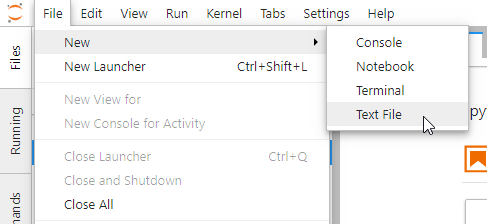
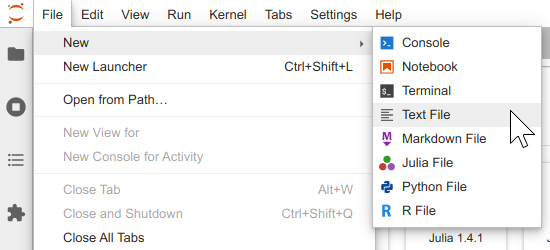
Update screenshots and text for user interface docs (#11499)
* Update screenshots and text for user interface docs

* Update JupyterLab image

Changed region(s): [[0.0, 0.0, 1.0, 1.0], [0.9856, 0.9375, 1.0, 0.9688]]

diff --git a/docs/source/user/interface.rst b/docs/source/user/interface.rst
@@ -51,28 +51,46 @@ default menus are:
 :ref:`JupyterLab extensions <user_extensions>` can also create new top-level menus in the menu
 bar.
 
+.. _sidebars:
+
+Left and Right Sidebar
+----------------------
+
 .. _left-sidebar:
 
-Left Sidebar
-------------
+The left sidebar contains a number of commonly-used tabs including:
 
-The left sidebar contains a number of commonly-used tabs, such as a file
-browser, a list of running kernels and terminals, the command palette,
-and a list of tabs in the main work area:
+- a file browser,
+- a list of tabs in the main work and of running kernels and terminals,
+- the command palette (in 3.0+ moved to a modal window accessible with a :ref:`keyboard shortcut <access-palette>`),
+- the :ref:`table of contents <toc>`,
+- the :ref:`extension manager <extension_manager>`.
 
 .. image:: images/interface_left.png
    :align: center
    :class: jp-screenshot
    :alt: A screenshot of the primary JupyterLab sidebar showing a variety of files in the file browser.
 
-The icons and labels column that allows to switch between tabs is called
-Activity Bar in JupyterLab.
+.. _right-sidebar:
+
+The right sidebar contains:
+
+- the property inspector (active in notebooks),
+- the :ref:`debugger <debugger>`.
+
+.. image:: images/interface_right.png
+   :align: center
+   :class: jp-screenshot
+   :alt: A screenshot of the secondary JupyterLab sidebar showing the property inspector.
+
+The column that allows to switch between tabs is called Activity Bar in JupyterLab.
 
 .. _left-sidebar-toggle:
 
-The left sidebar can be collapsed or expanded by selecting "Show Left Sidebar"
-in the View menu or by clicking on the active sidebar tab:
+The sidebars can be collapsed or expanded by selecting "Show Left Sidebar"
+or "Show Right Sidebar" in the View menu or by clicking on the active sidebar tab:
 
+The location of tabs can be switched between the left and the right sidebar from the :ref:`context menu <context-menus-rightclick>`.
 
 .. raw:: html
 
@@ -80,7 +98,7 @@ in the View menu or by clicking on the active sidebar tab:
      <iframe src="https://www.youtube-nocookie.com/embed/PlJGecfetek?rel=0&amp;showinfo=0" frameborder="0" allow="autoplay; encrypted-media" allowfullscreen></iframe>
   </div>
 
-JupyterLab extensions can add additional panels to the left sidebar.
+JupyterLab extensions can add additional panels to the sidebars.
 
 .. _main-area:
 

diff --git a/docs/source/user/export.rst b/docs/source/user/export.rst
@@ -8,7 +8,7 @@ into other file formats such as:
 
 -  Asciidoc ``.asciidoc``
 -  HTML ``.html``
--  Latex ``.tex``
+-  LaTeX ``.tex``
 -  Markdown ``.md``
 -  PDF ``.pdf``
 -  ReStructured Text ``.rst``
@@ -35,7 +35,7 @@ slides, follow these steps:
 
 1. Open a notebook by double clicking it in the
    :ref:`file browser <working-with-files>`.
-2. Select Cell tools in the :ref:`left sidebar <left-sidebar>`.
+2. Select Property inspector in the :ref:`right sidebar <right-sidebar>`.
 3. Select the slide type (Slide, Subslide, Fragment, Skip, Notes).
 
 .. image:: images/exporting_slide_type.png

diff --git a/docs/source/user/extensions.rst b/docs/source/user/extensions.rst
@@ -207,6 +207,8 @@ See :ref:`documentation on LabConfig directories <labconfig_directories>` for mo
 Managing Extensions Using the Extension Manager
 -----------------------------------------------
 
+.. _extension_manager:
+
 You can use the Extension Manager in JupyterLab to manage extensions that are
 distributed as single JavaScript packages on npm.
 

diff --git a/docs/source/user/commands.rst b/docs/source/user/commands.rst
@@ -16,3 +16,5 @@ keyboard-driven way to search for and run JupyterLab commands:
 
 The command palette can be accessed from the View menu or using the keyboard shortcut
 ``Command/Ctrl Shift C``.
+
+The command palette can be displayed in the sidebar by adding ``'modal': false`` to the Settings.
